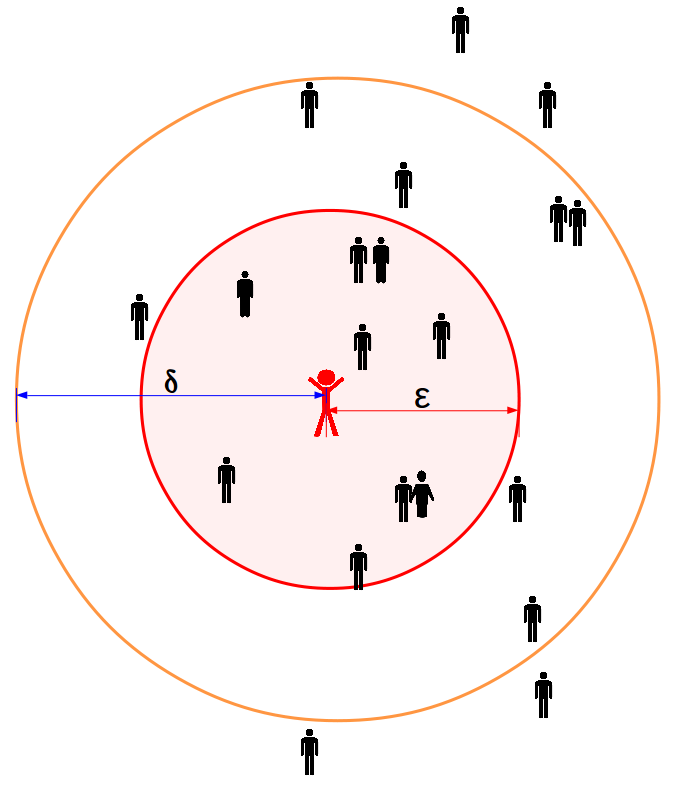
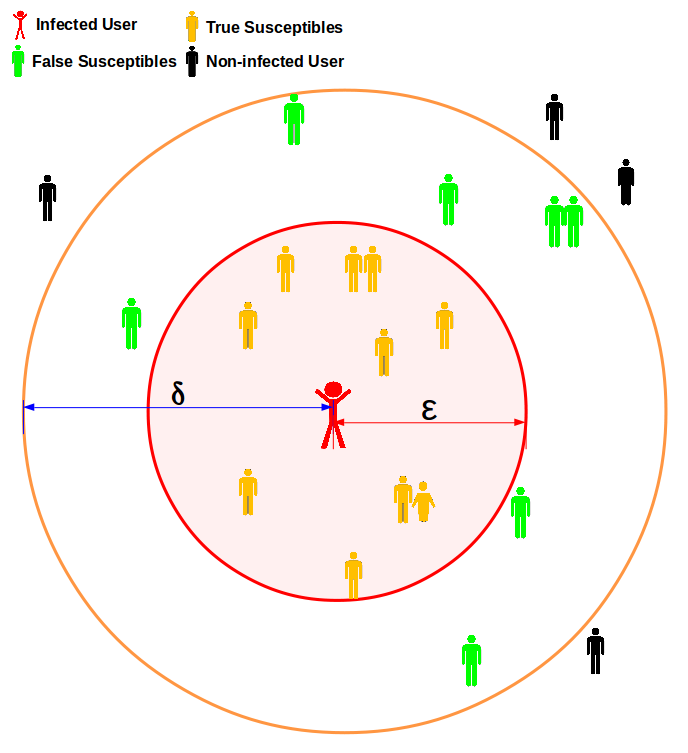
modified Infected_noninfected

diff --git a/README.md b/README.md
@@ -1,3 +1,7 @@
+# Are You Covid-19 Positive? A Location Based Reality Check
+In the present national emergency situation of coronavirus pandemic governments of all countries are trying to prevent massive propagation of that virus. To get a success in preventing propagation of the Covid-19 virus many governments have decided to keep the whole country locked down. According to expart’s opinion the ultimate success can be achieved by quarantining all Covid-19 positive patients and all those persons who came in contact or closer to these patients within last 15-20 days. Very often it is happening that some person who met the affected patient hides this information from local administration to avoid quarantine. In this situation the basic problem is finding out those vulnerable people, but this is a very hard problem because it is very difficult for the patient to remember who met him in the last 15-20 days. It is also difficult for someone to find out whether he/she came closer to an affected patient in the last few days. We have developed a location based coronavirus reality check system which enables users to find out whether he/she came closer to any Covid-19 positive patients.
+
+
 # INFECTRACER
 
   
@@ -18,7 +22,6 @@ for which you should see
 ```
 266909 data/data.txt
 1601454 data/data.txt.ext
-1868363 total
 ```
 
 ### Approximate Retrieval Approach
@@ -97,14 +100,25 @@ The real FourSquare check-in data is not directly applicable for our study becau
 We undertake a simple simulation model to generate pseudo-user interactions (likely contacts). First, we filter the `data.txt` file to retain only one check-in per user. This makes the simulation algorithm easier to manage.
 
 Next, for each user `U` (having a unique id),  we generate a set of mutually exclusive `pseudo-users` or `ghost-users`, which comprises the ground-truth information for each user. Note that since all the original/real user-checkins were sufficiently apart in space-time coordinates, it is likely that the neighbourhood of a user comprised of the ghost-user check-ins are also far apart  (in which case one can rely with sufficient confidence on the simulated ground-truth data).
+For each user `U` we generate `p+n` number of `ghost-user` in `$\delta$` neighbourhood, out of them `p` number of `ghost-users` are belong to `$\epsilon$` neighbourhood, if user `U` is positively infected person then these `p` `ghost-users` will be considered as  vulnerable person, whom we need to identify, and remaining `n` people will be considered as non-suspicious persons as they are in safe distance from the infected person `U`.  In the following figure we have shown a visualization of simulated `ghost-users` corresponding to a real infected user (red person in the figure).
+![Infected noninfected](Infected_noninfected.png)
 
 To generate simulated data, simply execute
 ```
 sh addusers.sh data.txt
 ```
 
-![Infected noninfected](Infected_noninfected.png)
+
 
 Again, we provide a zipped version of this file as `data/data.txt.ext.gz`. Unzipping this file you should see `1601454` lines (`wc -l`).
 
 
+### Results
+To address the correctness of our algorithm we computed `Recall`as evaluation metric. As in our problem positively infected `ghost-users` should not slip away so `Recall` is a good choice as an evaluation metric. In our experiment we consider the number of `ghost-user` corresponding to a given user, `$\epsilon$` and `$\delta$` neighbourhood as parameters. In the following table we have presented our experimented results.
+
+| #Users | Fraction<br>infected | #Infected | #Ghost | $\epsilon$ | $\delta$ | #Retrieved | Search<br>time | Recall |
+|:------:|:--------------------:|:---------:|:------:|:----------:|:--------:|:----------:|:--------------:|:------:|
+| 266909 | 0.01 | 2669 | 5 | 1 | 2 | 5 | 0.0774 | 0.9036 |
+| 266909 | 0.02 | 5338 | 5 | 1 | 2 | 5 | 0.1569 | 0.9016 |
+| 266909 | 0.03 | 8007 | 5 | 1 | 2 | 5 | 0.2559 | 0.9010 |
+| 266909 | 0.04 | 10676 | 5 | 1 | 2 | 5 | 0.3087 | 0.9052 |
